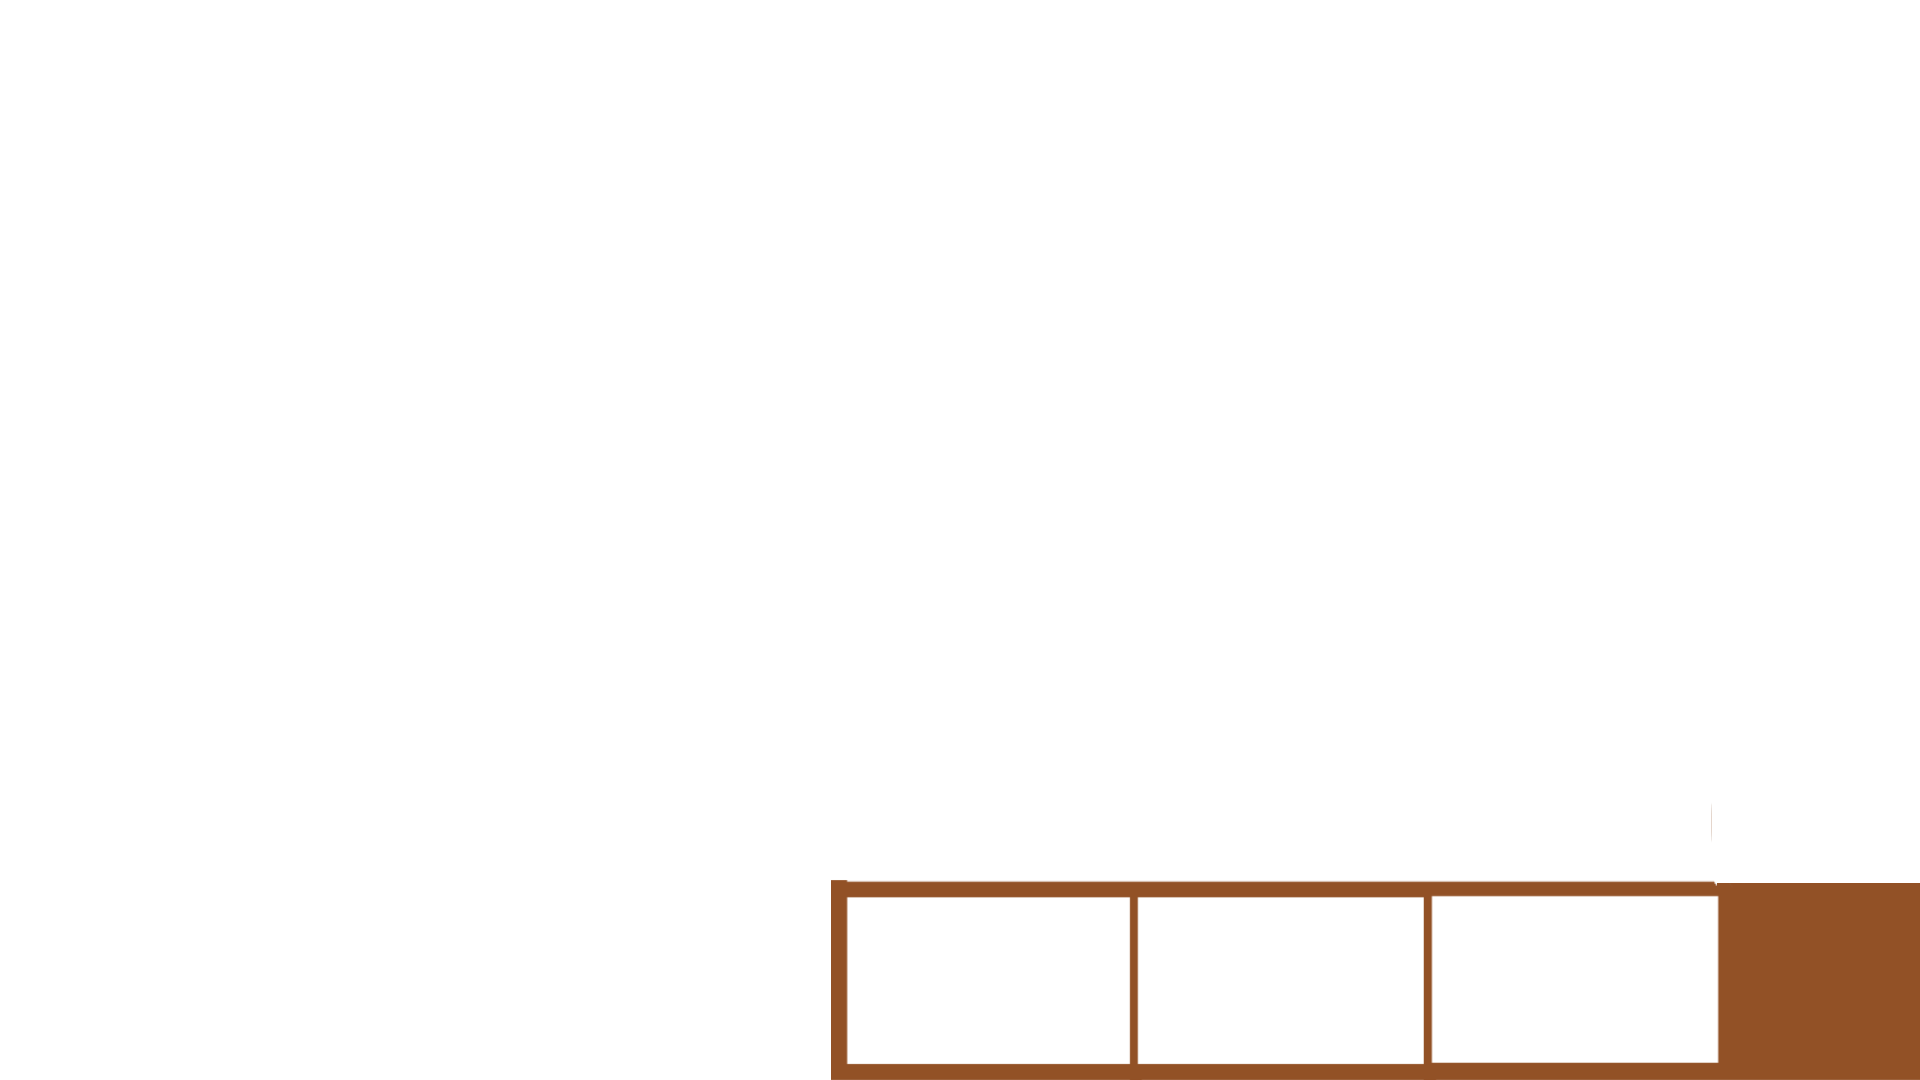
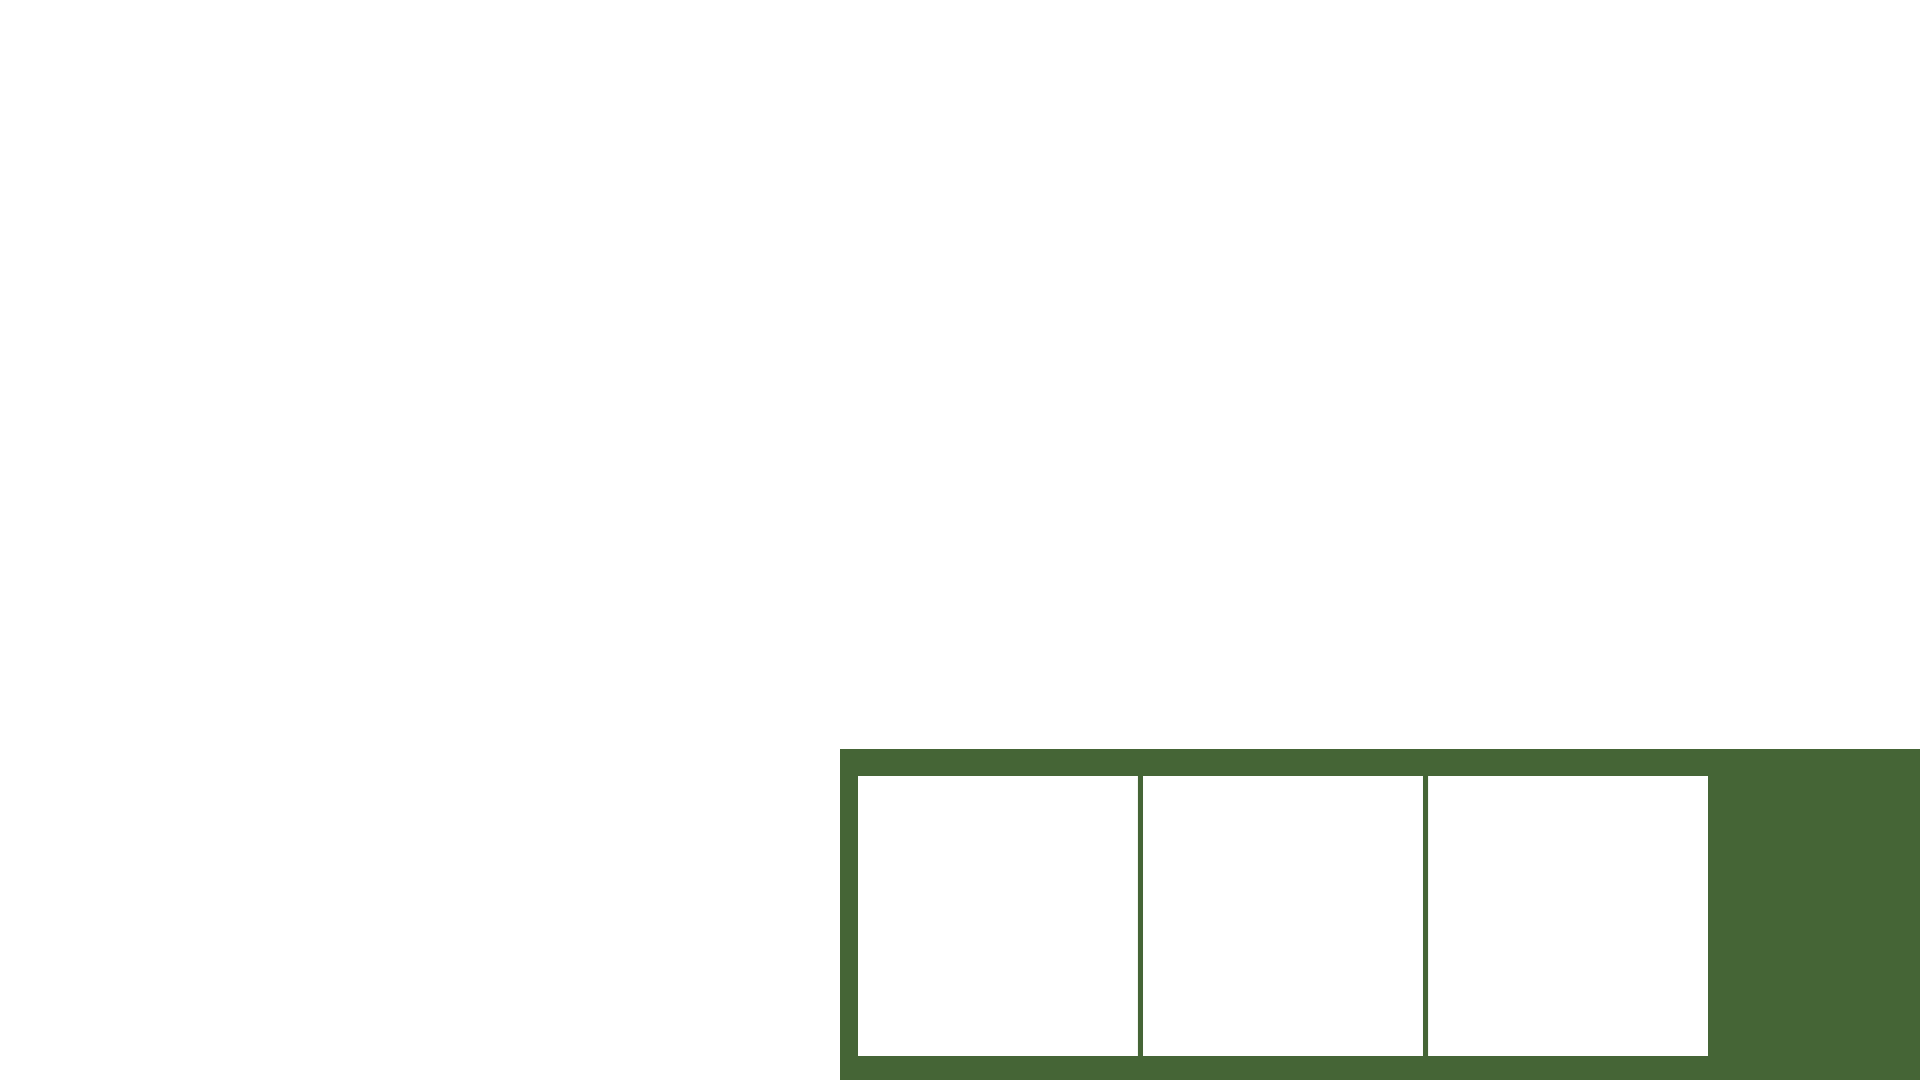
- Piccole correzioni all'indicator. - Completata la possibilità di tornare su dumby cliccando l'indicatore. - Risolto bug dell'avvio in landscape. - Aggunta UI orizzontale e lo switch dell'immagine fra orizzontale e verticale (Da testare buildato) - Switch delle dimensioni dello screenRect in dumbyI

Changed region(s): [[0.4062, 0.6722, 1.0, 1.0]]

diff --git a/Assets/Scripts/Misc/DumbyIndicatorManager.cs b/Assets/Scripts/Misc/DumbyIndicatorManager.cs
@@ -3,13 +3,41 @@ using System.Collections.Generic;
 using UnityEngine;
 using DumbProject.Generic;
 using UnityEngine.UI;
-using System.Linq;
+using FlexibleUI;
 
 namespace DumbProject.UI
 {
     public class DumbyIndicatorManager : MonoBehaviour
     {
         UIManager uiManager;
+        RectTransform cameraPanelRectTransform;
+
+        private ScreenOrientation _tempDeviceOrientation;
+        private ScreenOrientation TempDeviceOrientation {
+            get
+            {
+                return _tempDeviceOrientation;
+            }
+            set
+            {
+                if (_tempDeviceOrientation != value)
+                {
+                    _tempDeviceOrientation = value;
+                    UpdateScreenRectSize();
+                }
+            }
+        }
+
+        ScreenOrientation DeviceOrientation
+        {
+            get
+            {
+                return uiManager.DeviceCurrentOrientation;
+            }
+        }
+
+
+
         public GameObject DumbyIconPrefab;
         GameObject DumbyIcon;
         Rect screenRect;
@@ -24,12 +52,12 @@ namespace DumbProject.UI
         bool YNeg;
 
 
-        private void Start()
+        public void Init()
         {
             offset = 5;
             uiManager = GameManager.I.UIMng;
-            RectTransform cameraPanelRectTransform = uiManager.CameraPanel.GetComponent<RectTransform>();
-            screenRect = new Rect(cameraPanelRectTransform.anchorMin.x * Screen.width, cameraPanelRectTransform.anchorMin.y * Screen.height, cameraPanelRectTransform.anchorMax.x * Screen.width, cameraPanelRectTransform.anchorMax.y * Screen.height);
+            cameraPanelRectTransform = uiManager.CameraPanel.GetComponent<RectTransform>();
+            UpdateScreenRectSize();
             Vector3 vector = Camera.main.WorldToScreenPoint(transform.position) ;
             if (uiManager != null) {
                 DumbyIcon = Instantiate(DumbyIconPrefab, vector + Vector3.up * 70, Quaternion.identity, uiManager.transform);
@@ -39,13 +67,27 @@ namespace DumbProject.UI
 
         private void Update()
         {
-            UpdateIndicatorPosition();
+            if (uiManager != null)
+            {
+                _tempDeviceOrientation = DeviceOrientation; 
+            }
+
             if (GameManager.I.CurrentState == Flow.FlowState.Pause)
                 DumbyIcon.GetComponent<Image>().enabled = false;
             else if (GameManager.I.CurrentState == Flow.FlowState.Gameplay)
+            {
                 DumbyIcon.GetComponent<Image>().enabled = true;
+                UpdateIndicatorPosition();
+            }
             else if (GameManager.I.CurrentState == Flow.FlowState.RecapGame)
                 Destroy(DumbyIcon);
+        }
+
+
+        void UpdateScreenRectSize()
+        {
+            screenRect = new Rect(cameraPanelRectTransform.anchorMin.x * Screen.width, cameraPanelRectTransform.anchorMin.y * Screen.height,
+            cameraPanelRectTransform.anchorMax.x * Screen.width, cameraPanelRectTransform.anchorMax.y * Screen.height);
         }
 
         /// <summary>
@@ -57,7 +99,7 @@ namespace DumbProject.UI
             CheckIfInsideTheScreen();
 
 
-            if (GetComponentInParent<Renderer>().isVisible)
+            if (GetComponentInParent<Renderer>().isVisible && DumbyIcon != null)
             {
                 DumbyIcon.transform.position = dumbyPosition;
                 XPos=false;

diff --git a/Assets/Scripts/Misc/Camera_CinematicController.cs b/Assets/Scripts/Misc/Camera_CinematicController.cs
@@ -8,6 +8,13 @@ namespace DumbProject.Generic {
     {
 
         public float Duration;
+        Plane gridLevel;
+        Ray centralRay;
+
+        public void Init()
+        {
+            gridLevel = new Plane(Vector3.up, GameManager.I.MainGridCtrl.transform.position.y + GameManager.I.MainGridCtrl.GridOffsetY);
+        }
 
         public void Execute(Vector3 _start, Vector3 _target)
         {
@@ -17,11 +24,30 @@ namespace DumbProject.Generic {
             Tween movement = transform.DOMove(defferedTarget, Duration/2);
             movement.OnComplete(() =>
             {
-                transform.DOMove(initialPos, Duration/2);
+                transform.DOMove(initialPos, Duration/2).OnComplete(() => {
                 GameManager.I.ChageFlowState(FlowState.Gameplay);
                 GameManager.I.InputHndl.enabled = true;
                 movement.Kill();
+                });
             });
+        }
+
+        /// <summary>
+        /// Move the camera in a specific position
+        /// </summary>
+        /// <param name="_target">The position to reach</param>
+        public void MoveTo(Vector3 _target)
+        {
+            Vector3 startPosition = new Vector3(0,0,0);
+
+            centralRay = Camera.main.ScreenPointToRay(Camera.main.transform.forward);
+            float distance;
+            if (gridLevel.Raycast(centralRay, out distance))
+                startPosition = centralRay.GetPoint(distance);
+
+            Vector3 defferedTarget = _target - (startPosition - transform.position);
+
+            transform.DOMove(defferedTarget, Duration / 4);
         }
     }
 }

diff --git a/Assets/Scripts/UI/RoomPanelContainer.cs b/Assets/Scripts/UI/RoomPanelContainer.cs
@@ -1,22 +1,44 @@
 using System.Collections;
 using System.Collections.Generic;
 using UnityEngine;
+using UnityEngine.UI;
 
 namespace DumbProject.UI
 {
     public class RoomPanelContainer : MonoBehaviour
     {
+        public Sprite VerticalUI;
+        public Sprite HorizontalUI;
+
+        Image gamePlayImage;
+
+
         List<UIRoomController> _uiSpawns = new List<UIRoomController>();
 
         public List<UIRoomController> UISpawns { get { return _uiSpawns; } }
 
-        public void Setup()
+        public void Setup(bool _isVertical)
         {
+            gamePlayImage = GetComponent<Image>();
+            SwitchGamePlayMenuImage(_isVertical);
             foreach (UIRoomController uiCtrl in GetComponentsInChildren<UIRoomController>())
             {
                 if(!UISpawns.Contains(uiCtrl))
                     _uiSpawns.Add(uiCtrl);
             }
         }
+
+        /// <summary>
+        /// Cambia l'immagine della UI di gioco in base all'orientamento
+        /// </summary>
+        /// <param name="_isVertical"></param>
+        void SwitchGamePlayMenuImage(bool _isVertical)
+        {
+            if (_isVertical)
+                gamePlayImage.sprite = VerticalUI;
+            else
+                gamePlayImage.sprite = HorizontalUI;
+        }
+
     }
 }

diff --git a/Assets/Scripts/Misc/DumbyIndicatorRepositioning.cs b/Assets/Scripts/Misc/DumbyIndicatorRepositioning.cs
@@ -1,7 +1,8 @@
 using System.Collections;
 using System.Collections.Generic;
 using UnityEngine;
-using UnityEngine.UI;
+using DumbProject.Generic;
+
 
 namespace DumbProject.UI
 {
@@ -14,11 +15,12 @@ namespace DumbProject.UI
             dumbyIndicatorMovement = _indicator;
         }
 
-
-        public void Repositioning()
+        /// <summary>
+        /// Take Dumby positin and call the function in Camera Cinematic Controller to move the camera.
+        /// </summary>
+        public void CameraRepositioning()
         {
-            /// Da le coordinate di dumby tramite dumby indicator ( a meno che il manager non conosce questa informazione)
-            /// alla camera per riposizionarla sulla sua posizione
+            GameManager.I.CameraHndl.GetComponent<Camera_CinematicController>().MoveTo(dumbyIndicatorMovement.transform.position);
         }
     }
 }

diff --git a/Assets/Scripts/Managers/GameManager.cs b/Assets/Scripts/Managers/GameManager.cs
@@ -166,7 +166,14 @@ namespace DumbProject.Generic
         {
             // TODO : implementare bene questa perte del flow
             InputHndl.enabled = false;
-            CameraHndl.GetComponent<Camera_CinematicController>().Execute(DungeonMng.FirstRoom.transform.position ,DungeonMng.ObjectiveRoom.transform.position);
+            Camera_CinematicController cameraCinematic = CameraHndl.GetComponent<Camera_CinematicController>();
+            cameraCinematic.Init();
+            cameraCinematic.Execute(DungeonMng.FirstRoom.transform.position ,DungeonMng.ObjectiveRoom.transform.position);
+        }
+
+        public void GamePlayActions()
+        {
+            Dumby.GetComponent<DumbyIndicatorManager>().Init();
         }
 
         public void PauseActions(bool _status)

diff --git a/Assets/Scripts/Managers/FlowManager.cs b/Assets/Scripts/Managers/FlowManager.cs
@@ -40,6 +40,7 @@ namespace DumbProject.Flow
                     GameManager.I.StartGameplayActions();
                     break;
                 case FlowState.Gameplay:
+                    GameManager.I.GamePlayActions();
                     if(_oldState == FlowState.Pause)
                         GameManager.I.PauseActions(false);
                     break;

diff --git a/Assets/Scripts/FlexibleUI/FlexibleUIManager.cs b/Assets/Scripts/FlexibleUI/FlexibleUIManager.cs
@@ -9,7 +9,7 @@ namespace FlexibleUI
         /// <summary>
         /// Forza la UI verticale, per debug solo su pc.
         /// </summary>
-        public static bool ForceVerticalUI = true;
+        public static bool ForceVerticalUI = false;
 
         static ScreenOrientation deviceOrientation = ScreenOrientation.Unknown;
         /// <summary>

diff --git a/Assets/Scripts/UI/UIGamePlayController.cs b/Assets/Scripts/UI/UIGamePlayController.cs
@@ -19,7 +19,7 @@ namespace DumbProject.UI
         {
             uiManager = _uiManager;
 
-            RoomPanelContainer.Setup();
+            RoomPanelContainer.Setup(_uiManager.ForceVerticalUI);
             PausePanel.Init(this);
             //InitPauseButton();
         }
